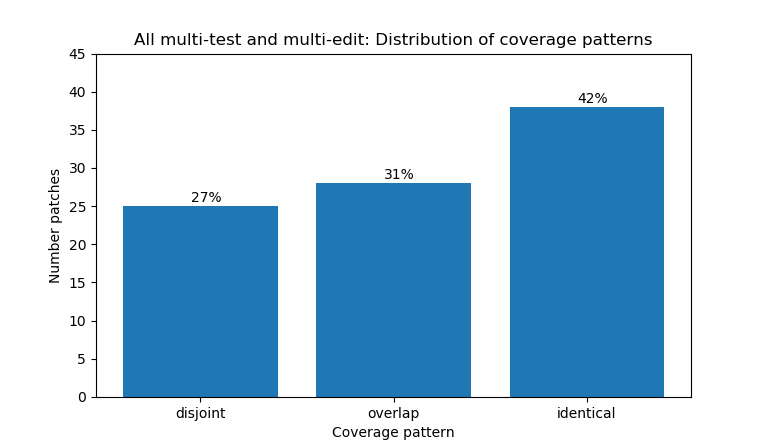
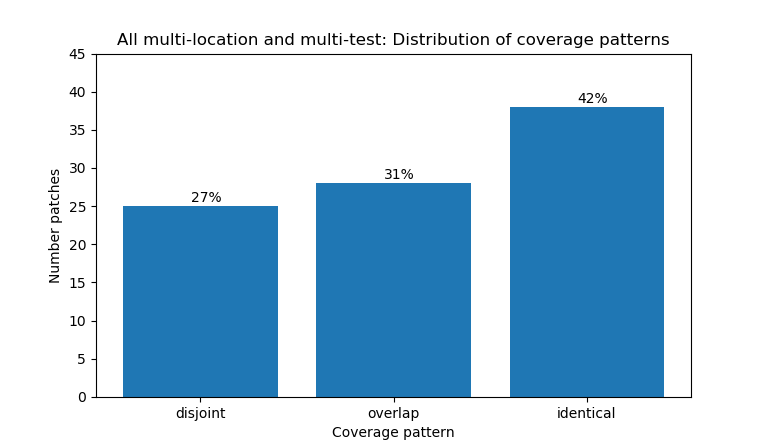
multi-edit -> multi-location

Changed region(s): [[0.1562, 0.0583, 0.875, 0.1166]]

diff --git a/paper/coverage.tex b/paper/coverage.tex
@@ -27,32 +27,29 @@ DStar~\cite{wong2013dstar}. Both of these were included in an empirical study
 comparing fault localization techniques and were found to localize a similar set of 
 faults~\cite{zou2019empirical}.
   
-%$\mathit{suspiciousness}(s) = 
-%\frac{\mathit{\%failing(s)}}{\mathit{\% failing(s)} + \mathit{\% passing(s)}}$, where  
-%$\mathit{\% failing(s)}$ and $\mathit{\% passing(s)}$ is the percentage of failing tests 
-%and passing tests that execute line $s$, respectively
 
 Fundamentally, a core assumption underlying SBFL is that \emph{failing tests execute 
 buggy portions of the code relatively more often than passing tests.} 
 Thus, if all failing tests execute a 
 particular line of code, then that line of code is scored as more suspicious.
-This assumption is well-suited to single edit repair. Indeed, the evaluation
+This assumption is well-suited to single location repair. Indeed, the evaluation
 of most SBFL techniques asks exactly the question of interest when considering a
-technique's suitability for single-edit repair: how often does a given technique
+technique's suitability for single-location repair: how often does a given technique
 correctly, highly rank individual buggy lines of code? 
 
 Such evaluations, by and large, do not consider the implications of
-suspiciousness scoring in a multi-edit repair context.  Instead, evaluations
+suspiciousness scoring in a multi-location repair context.  Instead, evaluations
 typically consider a technique ``successful'' if it identifies \emph{any} of a
 set of changed lines as highly-ranked or likely-suspicious.  While appropriate
 for the question being asked in such evaluations, this does not address
-suitability for multi-line program repair.  Identifying one of several buggy
+suitability for multi-location program repair.  Identifying one of several buggy
 locations is generally inadequate in a context where multiple locations must be
 modified.  
 
 Thus, in this research question, we investigate how well the SBFL assumption
-applies to tests that identify multi-line bugs. We focus especially on
-multi-line bugs that are associated with multiple tests; a bug with only a single failing test 
+applies to tests that identify multi-location bugs. We focus especially on
+multi-location bugs that are associated with multiple tests; a bug with only a single failing 
+test 
 trivially and equally implicates all the lines that test executes.  If multiple tests all cover the 
 multiple
 modified locations well, then SBFL's core assumption holds and multi-edit repair
@@ -68,32 +65,33 @@ disjoint path locations, or some combination?
 
 
 \rqorinsight{How well do multiple tests cover the multiple locations
-  implicated in multi-edit bugs?}
+  implicated in multi-location bugs?}
 
 \paragraph{Methodology}
 
-Between both datasets, there are 92 total bugs that are both multi-edit and 
+Between both datasets, there are 92 total bugs that are both multi-location and 
 multi-test: 59 in Defects4J, and 33 in Bears. \todo{There is one bug in bears that I couldn't 
 get coverage for through my tool or by inspection; what do I do about that? (It's currently 
 counted in the 92 bugs but not in the graphs)} For each of these bugs, we used 
-Jacoco to determine which of the chunks in the human patch were executed (at
+Jacoco to determine which of the patched locations were executed (at
 least once) by each failing test. Using 
 this coverage data, we categorized each bug as follows:
 \begin{itemize}
-\item \emph{disjoint} bugs are those for which no chunk is covered by all
+\item \emph{disjoint} bugs are those for which no location is covered by all
 failing tests.  Inutitively, these are the bugs for which the core SBFL
 assumption is violated.
+\item \emph{overlap} bugs are those for which some faulty locations are covered by
+all failing tests, but some are only covered by a subset of the failing tests. These bugs also 
+violate the core assumption of SBFL, albeit to a lesser extent.
 \item \emph{identical} bugs are those for which all tests cover the exact same set of
-  patch chunks
-\item \emph{overlap} bugs are those for which some buggy chunks are covered by
-  all failing tests, but some are only covered by a subset of the failing tests.
+  patch locations.
 \end{itemize}
 
 
 \begin{figure}
 	\includegraphics[width=\linewidth]{img/coverage-all.png}
 	\caption{Distribution of coverage patterns for all multi-test and 
-	multi-edit bugs in Bears and Defects4J.}
+	multi-location bugs in Bears and Defects4J.}
 	\label{fig:coverage-all}
 \end{figure}
 
@@ -108,7 +106,7 @@ assumption is violated.
 		\caption{Distribution of coverage patterns for Defects4J.}
 	\end{subfigure}
 	\caption{Distribution of coverage patterns divided by dataset,
-          indicating significant differences between the multi-edit bugs in
+          indicating significant differences between the multi-location bugs in
           Bears and Defects4J.}
 	\label{fig:coverage-datasets}
 \end{figure}
@@ -116,11 +114,11 @@ assumption is violated.
 \paragraph{Results}
 Figure~\ref{fig:coverage-all} shows results for the overall distribution,
 combining the bugs in both datasets. 27\%
-of the bugs were fully disjoint.  Thus, for a significant portion of multi-edit bugs,
+of the bugs were fully disjoint.  Thus, for a significant portion of multi-location bugs,
 the failing tests do not all execute any of the buggy code in common.  
 In addition, another 31\% were classified as \emph{overlap}: only some of the
 buggy locations were executed by all failing tests. In all, over half of 
-the bugs that were both multi-edit and multi-test contained chunks that were 
+the bugs that were both multi-location and multi-test contained chunks that were 
 not executed by all failing test cases.
 
 \todo{Ooooooh I have a question about results we can't ansewr in 24 hours but
@@ -135,12 +133,12 @@ disjoint and same categories. In Defects4J, 36\% of bugs are \emph{disjoint} and
 22\% are \emph{overlap}; in Bears, the proportions are 12\% and 47\%, respectively.
 We hypothesize that this may be due to differences in how the two  
 datasets were selected and minimized: Defects4J is a dataset of minimized and curated 
-bugs, while the bugs in Bears are taken scraped directly from the
+bugs, while the bugs in Bears are scraped directly from the
 commits. The Defects4J dataset specifically enforces a requirement that the patches in the 
 dataset be isolated, i.e., not containing any refactorings or new features, to improve the 
 usability of the dataset. The authors specifically chose patches that met this requirement, 
 and in some cases, isolated the bug themselves, manually~\cite{defects4j}. In contrast, the 
-only requirements that Bears has for inclusion of bugs is that it must be reproducible and 
+only requirements for inclusion of bugs in Bears is that it must be reproducible and 
 the patch must be written by a human. In addition, Bears was designed to be evolvable 
 and relatively easily expanded, which is at odds with manual inspection and isolation of 
 bugs~\cite{bears}.
@@ -149,6 +147,7 @@ different behavior, these findings highlight the importance of using diverse dat
 \todo{I don't actually know of work that argues that we should be using diverse dataset ? 
 But maybe Claire you have an idea.}
 
+\todo{below is original todo, which I've tried to address:}
 \todo{references to the original papers in citations would be good,
   here.}  \todo{1--2 more sentences...what's the implication?  Something like
   ``this supports recent work arguing for a diversity of datasets and
@@ -164,7 +163,7 @@ But maybe Claire you have an idea.}
 SBFL assumes that faulty locations are executed more often by identifying 
 or failing test cases and is not designed to find faults like these. Since SBFL 
 is the most common fault localization technique in APR, most APR techniques 
-are not well suited to fix a majority of these multi-edit and multi-test 
+are not well suited to fix a majority of these multi-location and multi-test 
 bugs.
 
 
